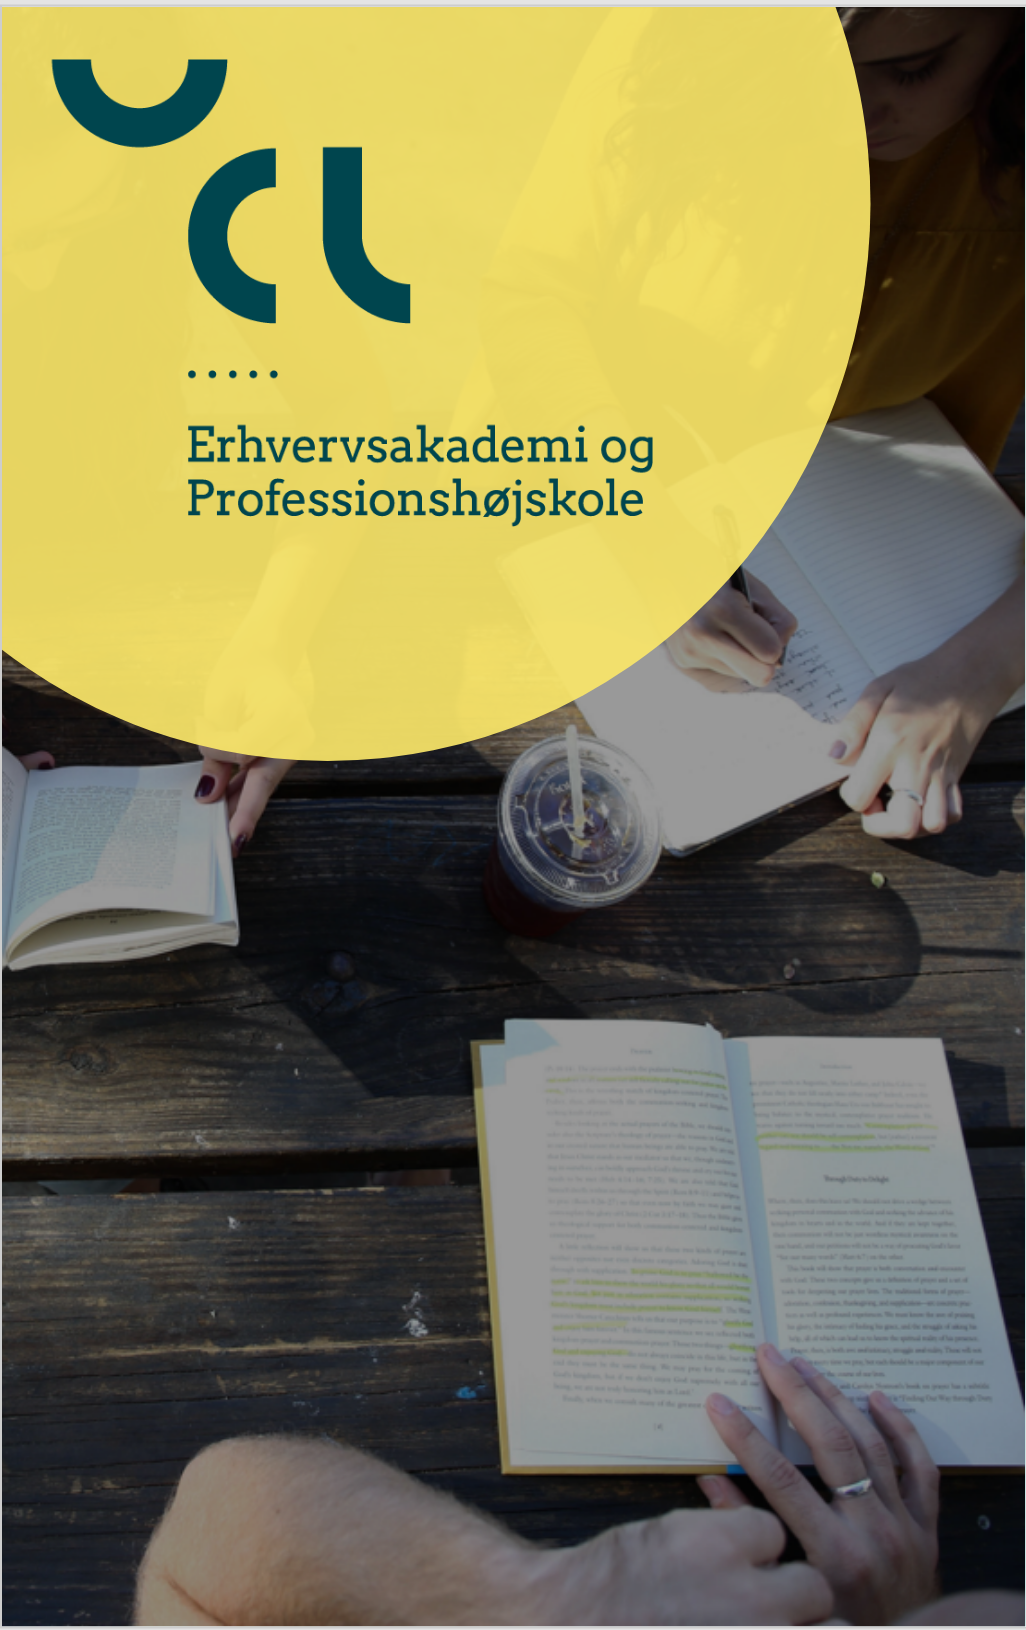
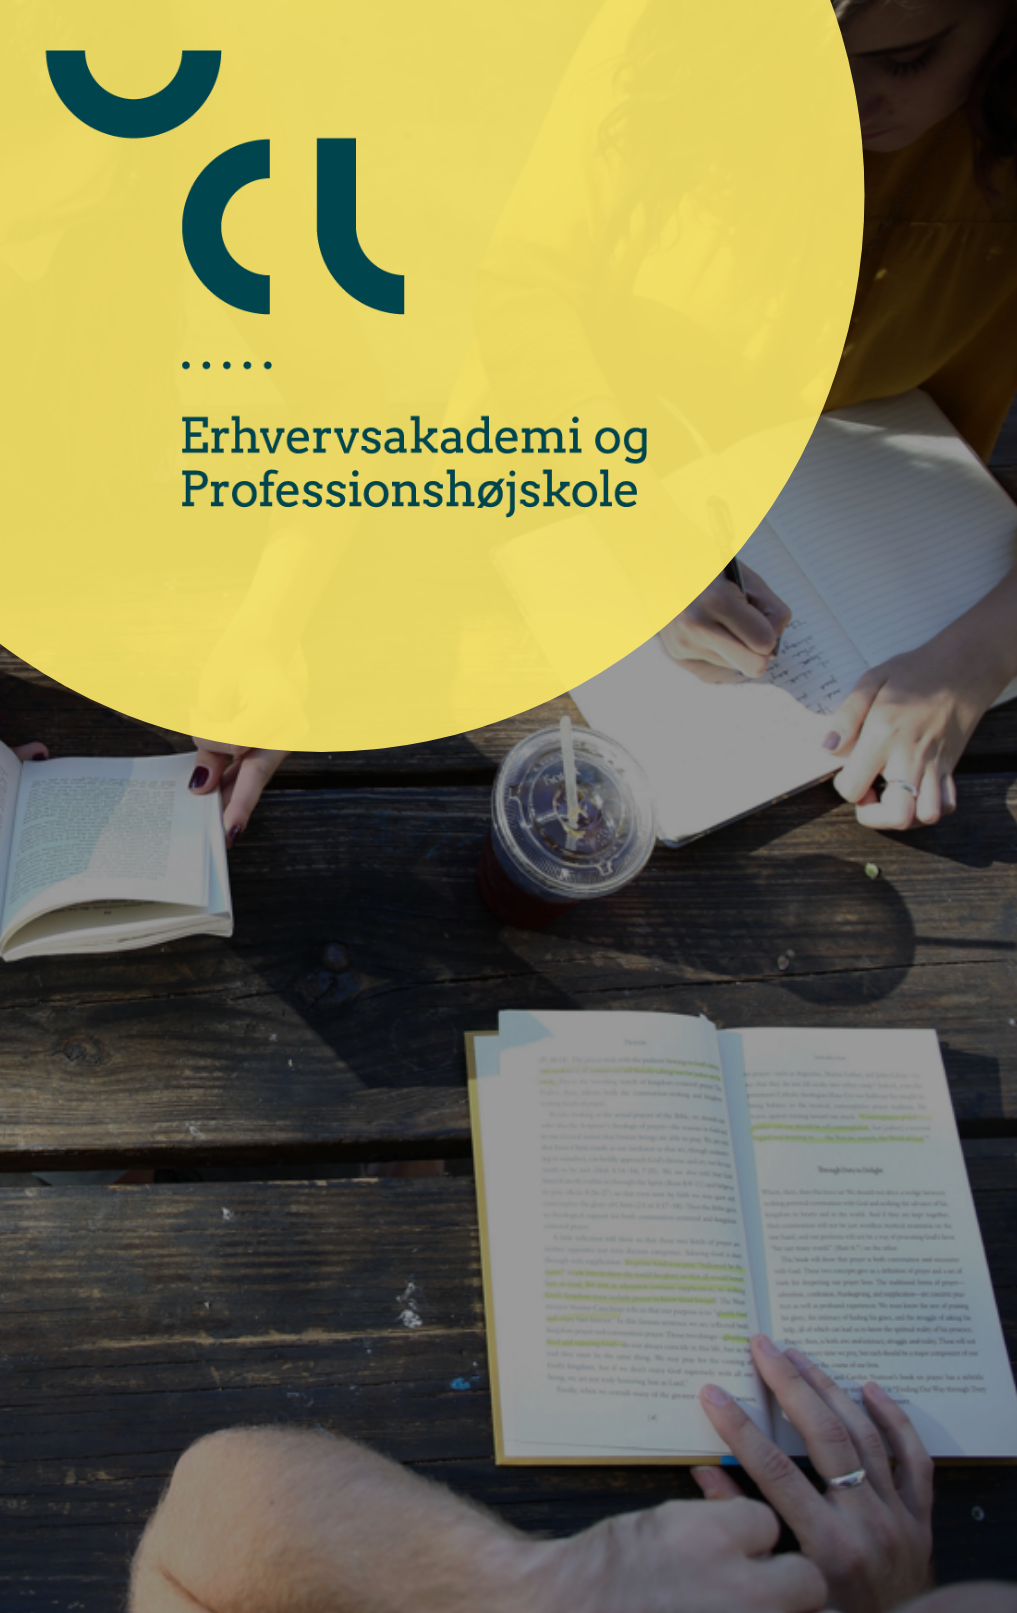
Fixed Login inputs to center and background image

diff --git a/UCLStudievejlederApp/wwwroot/css/login.css b/UCLStudievejlederApp/wwwroot/css/login.css
@@ -1,43 +1,51 @@
 * {
-    margin:0;
-    padding:0;
-    font-family:"proxima nova",sans-serif;
+    margin: 0;
+    padding: 0;
+    font-family: "proxima nova",sans-serif;
 }
+
 body {
     background-color: #CAE4E3;
 }
+
 .img-box {
-    display:block;
-    float:left;
-    width:35%;
+    display: block;
+    float: left;
+    width: 35%;
+    height: 100vh;
+    background-image: url(/assets/images/protobillede.png);
+    background-size: cover;
 }
-.img-box img {
- width:100%;
+
+    .img-box img {
+        width: 100%;
     }
 
 .login-box {
-display:block;
-float:right;
+    margin: 70px auto;
+    width: 500px;
 }
 
-.login-box h1 {
-font-size:70px;
-margin-top:50px;
-margin-bottom:50px;
+    .login-box h1 {
+        font-size: 60px;
+        margin-top: 50px;
+        margin-bottom: 50px;
+    }
+
+    .login-box p {
+        margin-bottom: 30px;
+    }
+
+.form-floating {
+    display: grid;
 }
 
-.login-box p {
-margin-bottom:30px;
-}
-
-.login-box div {
-    width:70%;
-}
-.form-floating input{
-width:500px;
-height:40px;
-font-size:20px;
-margin-bottom:20px;
+.form-floating input {
+    width: 500px;
+    height: 40px;
+    font-size: 20px;
+    margin-bottom: 20px;
+    padding: 0 10px;
 }
 
 #login-submit {
@@ -47,16 +55,21 @@ margin-bottom:20px;
     height: 35px;
     font-size: 20px;
     background-color: #00454E;
-    border:none;
-    border-radius:5px;
-    color:white;
+    border: none;
+    border-radius: 5px;
+    color: white;
 }
 
-#login-submit:hover {
-    cursor: pointer;
-    background-color: #00232A;
+    #login-submit:hover {
+        cursor: pointer;
+        background-color: #00232A;
     }
 
-.h1 {
+h1 {
     font-style: italic;
+    font-size: 10px;
+}
+
+.login-wrapper {
+    display: flex;
 }

diff --git a/UCLStudievejlederApp/Areas/Identity/Pages/Account/Login.cshtml.cs b/UCLStudievejlederApp/Areas/Identity/Pages/Account/Login.cshtml.cs
@@ -64,7 +64,7 @@ namespace UCLStudievejlederApp.Areas.Identity.Pages.Account
             ///     This API supports the ASP.NET Core Identity default UI infrastructure and is not intended to be used
             ///     directly from your code. This API may change or be removed in future releases.
             /// </summary>
-            [Required]
+            [Required(ErrorMessage = "Email er påkrævet.")]
             [EmailAddress]
             public string Email { get; set; }
 
@@ -72,7 +72,7 @@ namespace UCLStudievejlederApp.Areas.Identity.Pages.Account
             ///     This API supports the ASP.NET Core Identity default UI infrastructure and is not intended to be used
             ///     directly from your code. This API may change or be removed in future releases.
             /// </summary>
-            [Required]
+            [Required(ErrorMessage = "Password er påkrævet.")]
             [DataType(DataType.Password)]
             public string Password { get; set; }
 
